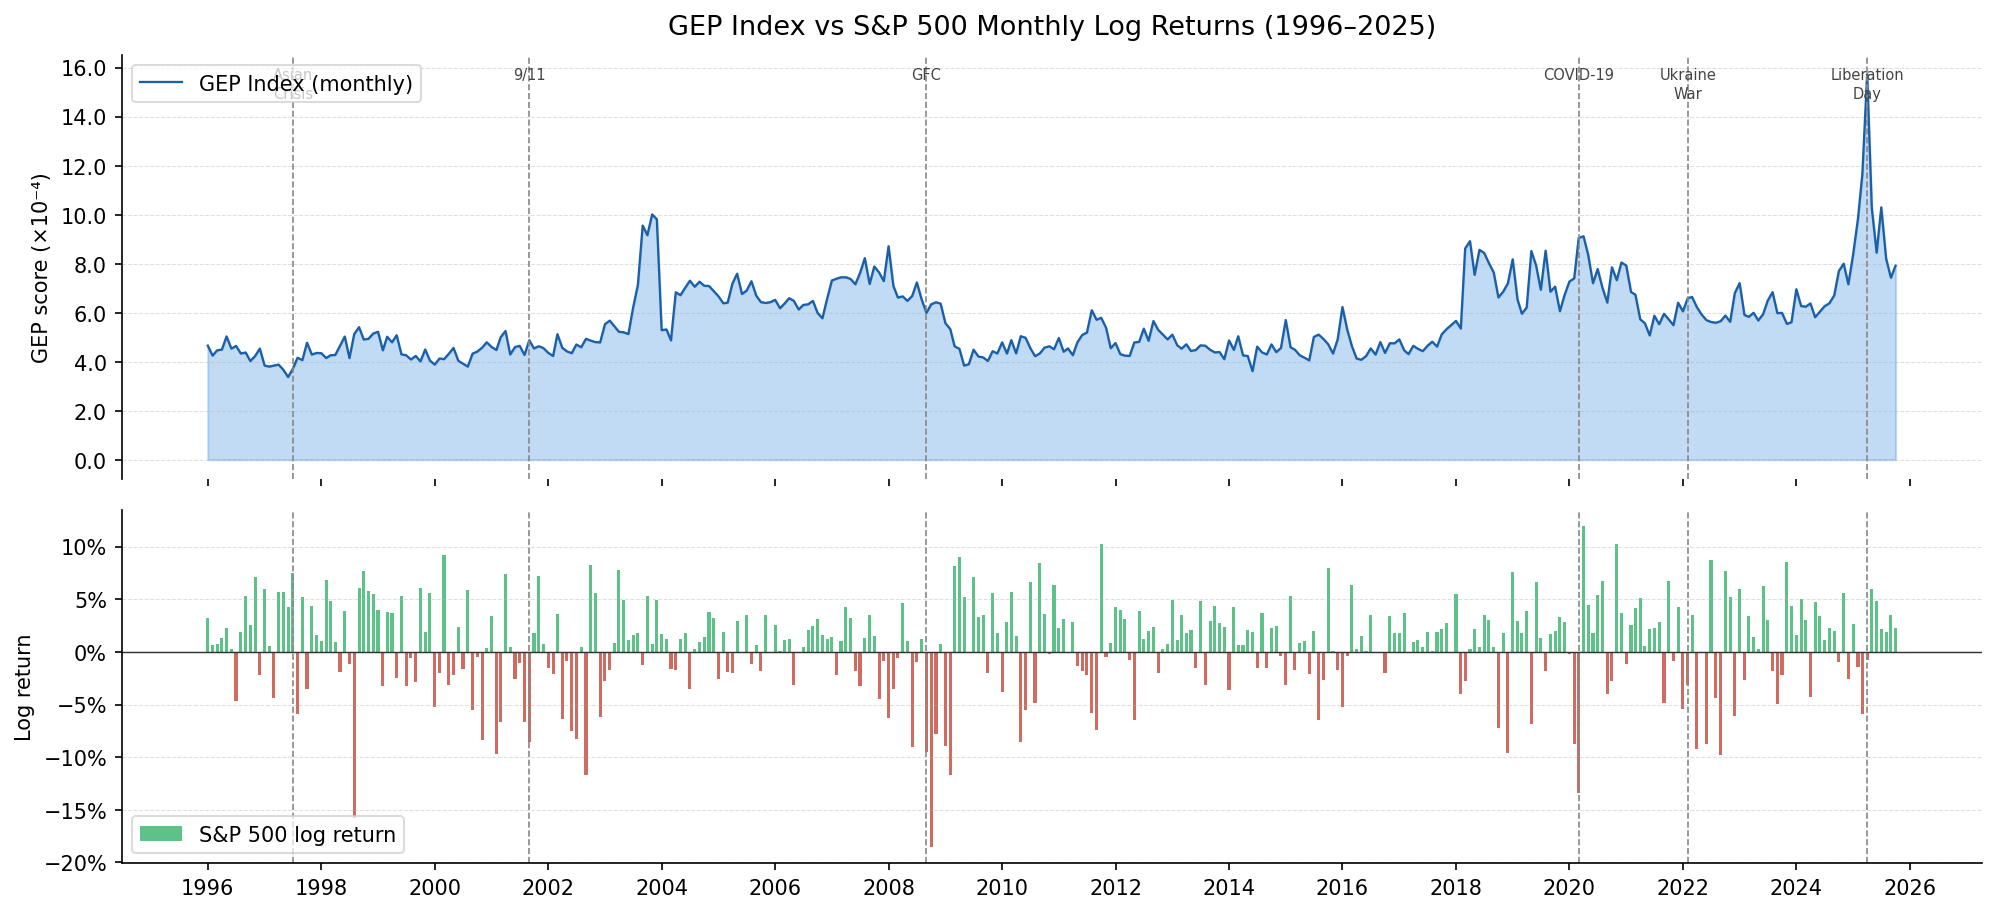
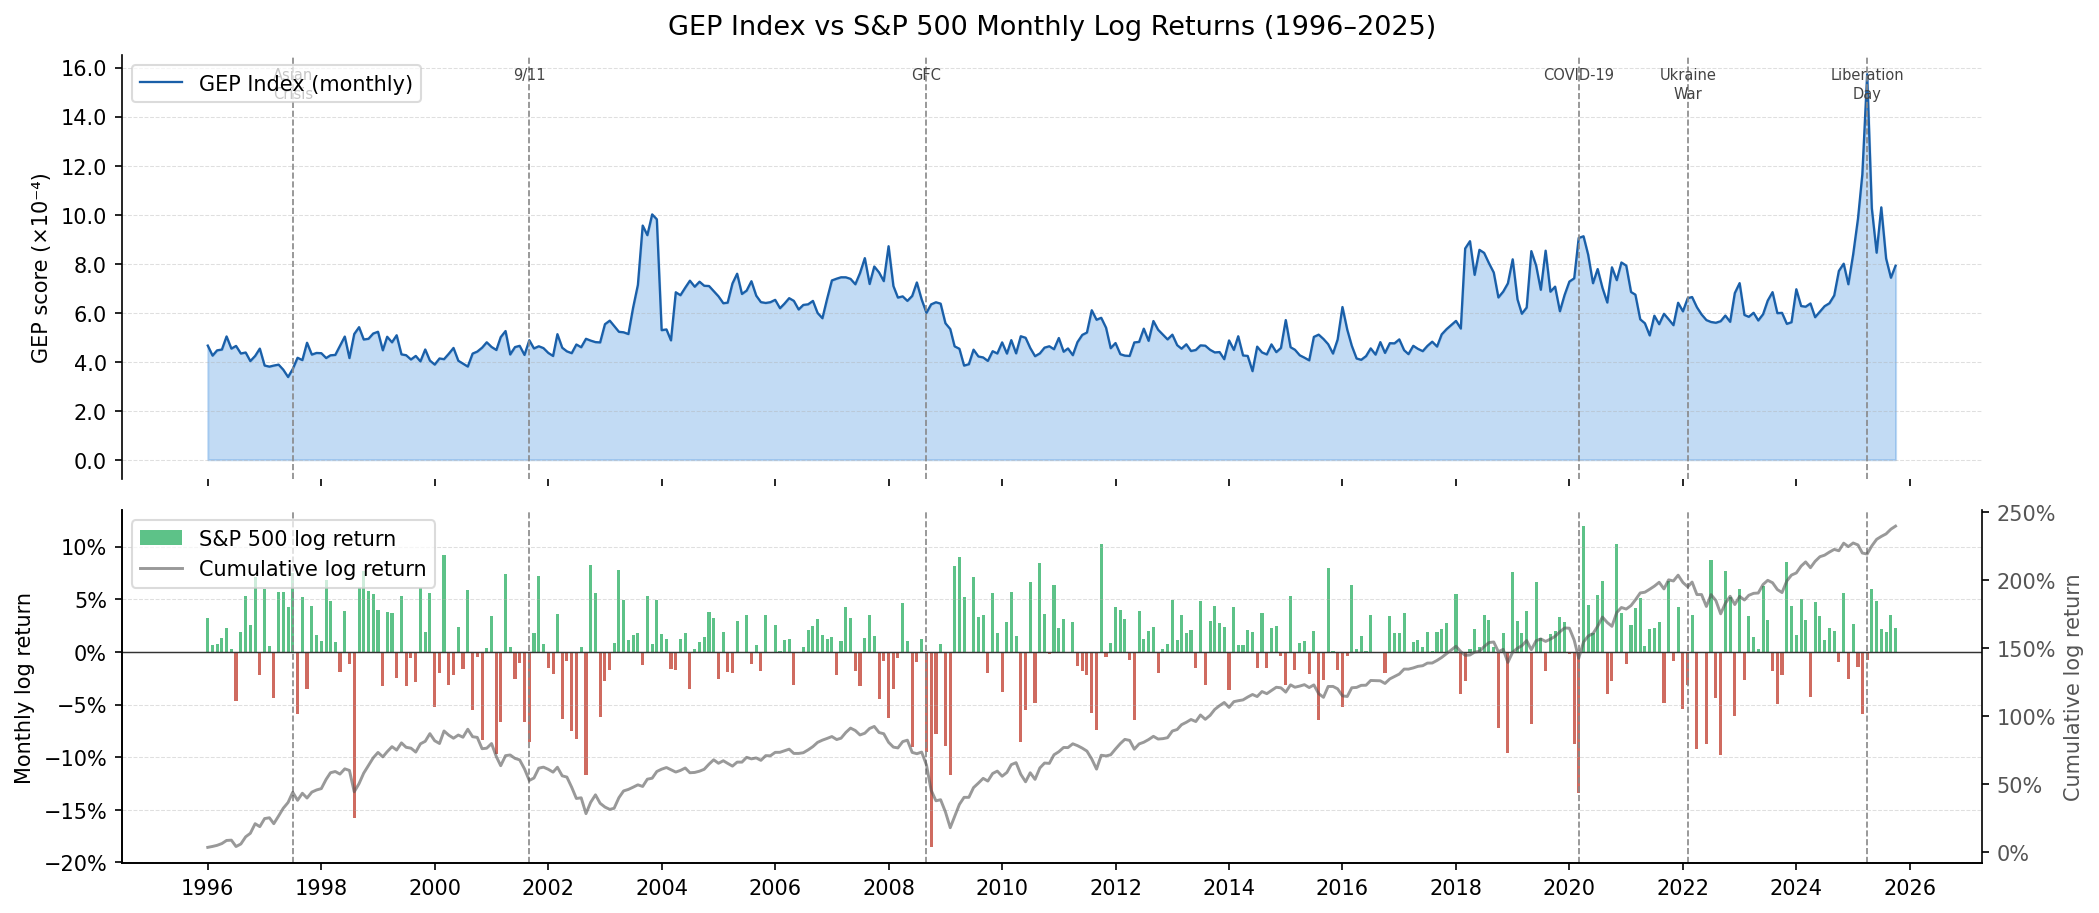
Add cumulative log return line to GEP vs S&P 500 plot
Overlay grey cumulative log return on right axis over the monthly
green/red bars to show long-run S&P trajectory alongside monthly detail.

diff --git a/INDEX/index_8_revised/gep_vs_sp500_logret.py b/INDEX/index_8_revised/gep_vs_sp500_logret.py
@@ -34,7 +34,8 @@ sp500 = sp500.dropna()
 
 # ── Merge on common months ─────────────────────────────────────────────────────
 df = monthly[['GEP_monthly']].join(sp500[['log_ret']], how='inner')
-df['gep_scaled'] = df['GEP_monthly'] * 10_000   # ×10⁻⁴ for readability
+df['gep_scaled']  = df['GEP_monthly'] * 10_000   # ×10⁻⁴ for readability
+df['cum_log_ret'] = df['log_ret'].cumsum()        # cumulative log return
 
 # ── Key events ────────────────────────────────────────────────────────────────
 events = {
@@ -65,17 +66,31 @@ ax1.legend(fontsize=10, framealpha=0.7, loc='upper left')
 ax1.set_title('GEP Index vs S&P 500 Monthly Log Returns (1996–2025)',
               fontsize=13, pad=10)
 
-# — Bottom panel: S&P 500 log returns ─────────────────────────────────────────
+# — Bottom panel: S&P 500 log returns + cumulative log return ─────────────────
 colors = ['#C0392B' if r < 0 else '#27AE60' for r in df['log_ret']]
 ax2.bar(df.index, df['log_ret'], color=colors, width=20, alpha=0.75,
         label='S&P 500 log return')
 ax2.axhline(0, color='#333333', linewidth=0.7)
-ax2.set_ylabel('Log return', fontsize=10)
+ax2.set_ylabel('Monthly log return', fontsize=10)
 ax2.yaxis.set_major_formatter(mticker.PercentFormatter(xmax=1, decimals=0))
 ax2.grid(axis='y', linestyle='--', linewidth=0.5, alpha=0.4)
 ax2.spines['top'].set_visible(False)
 ax2.spines['right'].set_visible(False)
-ax2.legend(fontsize=10, framealpha=0.7, loc='lower left')
+
+# cumulative log return on a separate right axis
+ax2r = ax2.twinx()
+ax2r.plot(df.index, df['cum_log_ret'], color='#555555', linewidth=1.4,
+          linestyle='-', alpha=0.6, label='Cumulative log return', zorder=4)
+ax2r.set_ylabel('Cumulative log return', fontsize=10, color='#555555')
+ax2r.tick_params(axis='y', labelcolor='#555555')
+ax2r.yaxis.set_major_formatter(mticker.PercentFormatter(xmax=1, decimals=0))
+ax2r.spines['top'].set_visible(False)
+
+# combined legend for both axes
+handles1, labels1 = ax2.get_legend_handles_labels()
+handles2, labels2 = ax2r.get_legend_handles_labels()
+ax2.legend(handles1 + handles2, labels1 + labels2,
+           fontsize=10, framealpha=0.7, loc='upper left')
 
 # — Shared x-axis ──────────────────────────────────────────────────────────────
 ax2.xaxis.set_major_locator(mdates.YearLocator(2))